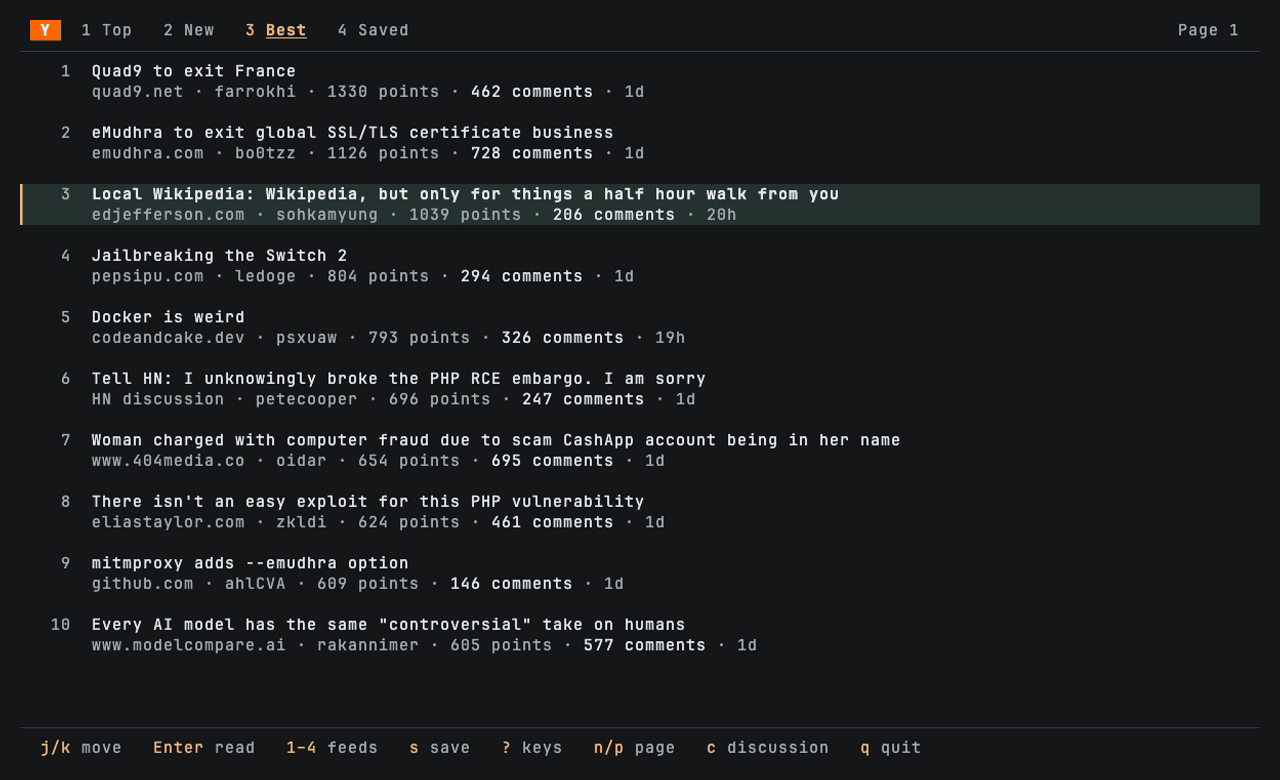
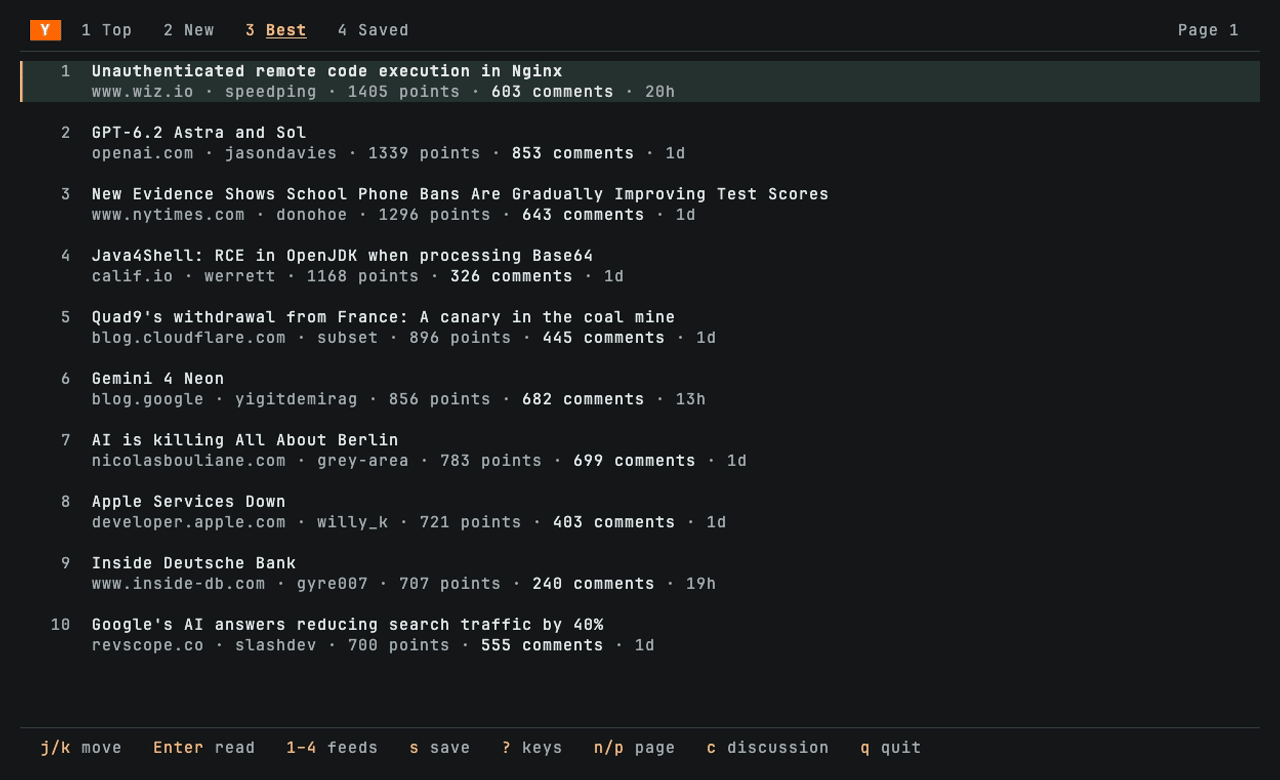
docs: render the terminal demo with vhs and refresh the stills
The README demo now shows the new comment experience: a summary, a citation with the
cited comment's replies browsed in place, then a thread expanded, folded and reopened
instantly. It is rendered by scripts/readme/demo.tape alongside the stills, so one
command regenerates every terminal image; only the Ghostty article-pane still remains
hand-recorded. The still tapes summarise the first story instead of the third, which
depended on whether that day's third article could be fetched.

Claude-Session: https://claude.ai/code/session_01XLmvxycjPCoV8bvWPc2nTW

diff --git a/README.md b/README.md
@@ -34,7 +34,7 @@ Read stories and comment threads in your terminal. Save stories for later, keep 
 
 On macOS with Ghostty, you can open the original article in a companion browser pane beside the discussion. Other setups open it in your default browser.
 
-![Opening a story with its summary, focusing a citation, reading the cited comment, then opening the article in a Ghostty browser pane beside it](docs/screenshots/demo.gif)
+![Opening a story with its summary, focusing a citation, browsing the cited comment's replies, then expanding, folding and instantly reopening a thread](docs/screenshots/demo.gif)
 
 ## Run it
 
@@ -273,7 +273,7 @@ Use the [security policy](SECURITY.md) to report a vulnerability privately.
 
 ![The reader in the light palette](docs/screenshots/reader-light.png)
 
-The stills of a single terminal are captured from the real app with [vhs](https://github.com/charmbracelet/vhs). To regenerate them after a UI change, run `scripts/readme-screenshots.sh`; it uses live Hacker News and an OpenRouter key from the environment or `.env.local` (two summaries, a few cents). The demo GIF and the article pane still are recorded in a real Ghostty window, because vhs cannot open Ghostty splits.
+The stills of a single terminal are captured from the real app with [vhs](https://github.com/charmbracelet/vhs). To regenerate them after a UI change, run `scripts/readme-screenshots.sh`; it also renders the demo GIF from `scripts/readme/demo.tape`. It uses live Hacker News and an OpenRouter key from the environment or `.env.local` (one summary, which the later recordings reuse once saved; a few cents). The article pane still is recorded in a real Ghostty window, because vhs cannot open Ghostty splits.
 
 ## About
 
